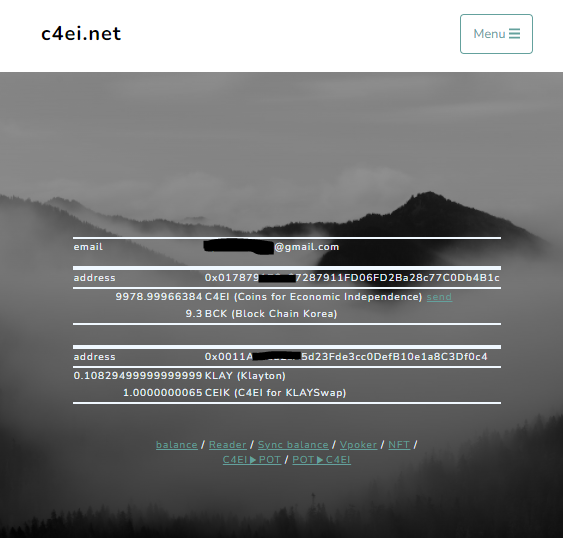
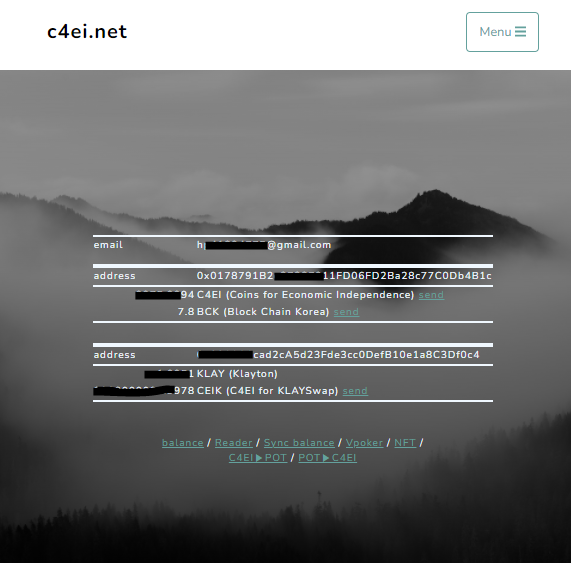
bck add

diff --git a/routes/index.js b/routes/index.js
@@ -74,7 +74,7 @@ router.get('/session2cookie', function(req, res, next) {
   if (tem_user_email !="" ){
     console.log("###75### /session2cookie [tem_user_email : "+tem_user_email+"]"); 
     res.cookie('user_email', tem_user_email);
-    let result = sync_connection.query("SELECT id, c4ei_addr, c4ei_balance, pot, bck_balance, klay_addr, klay_balance, klay_ceik_addr, klay_ceik_balance FROM user a WHERE a.email='" + tem_user_email + "'");
+    let result = sync_connection.query("SELECT id, c4ei_addr, round(c4ei_balance ,4) as c4ei_balance , pot, round(bck_balance ,4) as bck_balance, klay_addr, round(klay_balance ,4) as klay_balance, klay_ceik_addr, round(klay_ceik_balance ,4) as klay_ceik_balance FROM user a WHERE a.email='" + tem_user_email + "'");
     let user_id = result[0].id;
     res.cookie('user_idx', user_id);
     
@@ -106,7 +106,7 @@ router.get('/', function(req, res, next) {
     //   return;
     // }
     console.log("///////////////////////// 94 user_email :"+user_email +"/////////////////////////");
-    let result = sync_connection.query("SELECT id, c4ei_addr, c4ei_balance, pot, bck_balance, klay_addr, klay_balance, klay_ceik_addr, klay_ceik_balance FROM user a WHERE a.email='" + user_email + "'");
+    let result = sync_connection.query("SELECT id, c4ei_addr, round(c4ei_balance ,4) as c4ei_balance , pot, round(bck_balance ,4) as bck_balance, klay_addr, round(klay_balance ,4) as klay_balance, klay_ceik_addr, round(klay_ceik_balance ,4) as klay_ceik_balance FROM user a WHERE a.email='" + user_email + "'");
     let user_id = result[0].id;
     let c4ei_addr = result[0].c4ei_addr;
     let c4ei_balance = result[0].c4ei_balance;
@@ -168,7 +168,7 @@ router.get('/mybal', function(req, res, next) {
   else {
     /////////////////////////
     let user_email = req.cookies.user_email;
-    let result = sync_connection.query("SELECT id, c4ei_addr, c4ei_balance, pot, bck_balance, klay_addr, klay_balance, klay_ceik_addr, klay_ceik_balance FROM user a WHERE a.email='" + user_email + "'");
+    let result = sync_connection.query("SELECT id, c4ei_addr, round(c4ei_balance ,4) as c4ei_balance , pot, round(bck_balance ,4) as bck_balance, klay_addr, round(klay_balance ,4) as klay_balance, klay_ceik_addr, round(klay_ceik_balance ,4) as klay_ceik_balance FROM user a WHERE a.email='" + user_email + "'");
     let user_id = result[0].id;
     let c4ei_addr = result[0].c4ei_addr;
     let c4ei_balance = result[0].c4ei_balance;
@@ -198,7 +198,7 @@ router.get('/syncbalance', function(req, res, next) {
   else {
     /////////////////////////
     let user_email = req.cookies.user_email;
-    let result = sync_connection.query("SELECT id, c4ei_addr, c4ei_balance, pot, bck_balance, klay_addr, klay_balance, klay_ceik_addr, klay_ceik_balance FROM user a WHERE a.email='" + user_email + "'");
+    let result = sync_connection.query("SELECT id, c4ei_addr, round(c4ei_balance ,4) as c4ei_balance , pot, round(bck_balance ,4) as bck_balance, klay_addr, round(klay_balance ,4) as klay_balance, klay_ceik_addr, round(klay_ceik_balance ,4) as klay_ceik_balance FROM user a WHERE a.email='" + user_email + "'");
     let user_id = result[0].id;
     let c4ei_addr = result[0].c4ei_addr;
     let c4ei_balance = result[0].c4ei_balance;
@@ -236,7 +236,7 @@ router.get('/rcv', function(req, res, next) {
   else {
     /////////////////////////
     let user_email = req.cookies.user_email;
-    let result = sync_connection.query("SELECT id, c4ei_addr, c4ei_balance, pot, bck_balance, klay_addr, klay_balance, klay_ceik_addr, klay_ceik_balance FROM user a WHERE a.email='" + user_email + "'");
+    let result = sync_connection.query("SELECT id, c4ei_addr, round(c4ei_balance ,4) as c4ei_balance , pot, round(bck_balance ,4) as bck_balance, klay_addr, round(klay_balance ,4) as klay_balance, klay_ceik_addr, round(klay_ceik_balance ,4) as klay_ceik_balance FROM user a WHERE a.email='" + user_email + "'");
     let user_id = result[0].id;
     let c4ei_addr = result[0].c4ei_addr;
     let c4ei_balance = result[0].c4ei_balance;
@@ -278,7 +278,7 @@ router.get('/sendC4ei', function(req, res, next) {
   else {
     /////////////////////////
     let user_email = req.cookies.user_email;
-    let result = sync_connection.query("SELECT id, c4ei_addr, c4ei_balance, pot, bck_balance, klay_addr, klay_balance, klay_ceik_addr, klay_ceik_balance FROM user a WHERE a.email='" + user_email + "'");
+    let result = sync_connection.query("SELECT id, c4ei_addr, round(c4ei_balance ,4) as c4ei_balance , pot, round(bck_balance ,4) as bck_balance, klay_addr, round(klay_balance ,4) as klay_balance, klay_ceik_addr, round(klay_ceik_balance ,4) as klay_ceik_balance FROM user a WHERE a.email='" + user_email + "'");
     let user_id = result[0].id;
     let c4ei_addr = result[0].c4ei_addr;
     let c4ei_balance = result[0].c4ei_balance;
@@ -311,6 +311,55 @@ router.get('/sendC4ei', function(req, res, next) {
     });
   }
 });
+
+//sendTrC4eiBCKToAddr
+router.post('/sendTrC4eiBCKToAddr', function(req, res, next) {
+  console.log('sendTrC4eiBCKToAddr');
+  if (req.cookies.user_idx == "" || req.cookies.user_idx === undefined) {
+    res.sendFile(STATIC_PATH + '/ulogin.html')
+    return;
+  }
+  else {
+    /////////////////////////
+    var txt_my_email    = req.body.txt_my_email;
+    var txt_my_addr     = req.body.txt_my_addr;
+    var txt_my_balance  = req.body.txt_my_balance;
+    var txt_to_address  = req.body.txt_to_address;
+    var txt_to_amt      = req.body.txt_to_amt;
+
+    let user_email = req.cookies.user_email;
+    let result = sync_connection.query("SELECT id, c4ei_addr, round(c4ei_balance ,4) as c4ei_balance , pot, round(bck_balance ,4) as bck_balance, klay_addr, round(klay_balance ,4) as klay_balance, klay_ceik_addr, round(klay_ceik_balance ,4) as klay_ceik_balance FROM user a WHERE a.email='" + user_email + "'");
+    let user_id = result[0].id;
+    let c4ei_addr = result[0].c4ei_addr;
+    let c4ei_balance = result[0].c4ei_balance;
+    // let pot_balance = result[0].pot;
+    let bck_balance = result[0].bck_balance;
+    if(txt_my_email != user_email){ console.log('email different so can`t send'); return; }
+    if(c4ei_addr!=txt_my_addr){ console.log('c4ei_addr different so can`t send'); return; }
+    // balance changed ... 
+    if(bck_balance!=txt_my_balance){ 
+      console.log('balance different so can`t send'); 
+      res.render('msgpage', { title: 'oops', msg : 'balance different so can`t send'});
+      return; 
+    }
+    if((bck_balance-txt_to_amt)<0){ 
+      console.log('not enough balance so can`t send'); 
+      res.render('msgpage', { title: 'oops', msg : 'not enough balance so can`t send'});
+      return; 
+    }
+    let to_id = 15;let to_email = "no@member.com";if(to_id == undefined ||to_id==""){ res.render('msgpage', { title: 'oops', msg : '발송 주소에 해당하는 회원이 없습니다'}); return; }
+    if ((c4ei_addr!="" &&c4ei_addr!=null) && user_id > 0){
+      let user_ip   = req.headers['x-forwarded-for'] || req.connection.remoteAddress || req.socket.remoteAddress || req.connection.socket.remoteAddress;
+      save_db_bck_user_bal(user_id, txt_to_address, txt_to_amt, user_ip);
+      var txt_memo =txt_my_email +" : c4ei_BCK->"+to_email +":"+txt_to_amt;
+      save_db_sendlogC4eiToken(user_id, txt_my_addr, txt_to_address, txt_to_amt, user_ip, txt_memo);
+    }
+    /////////////////////////
+    res.render('sendokbck', { title: 'easypay Send OK',email:user_email, my_email : txt_my_email, my_addr:txt_my_addr
+            , my_balance:txt_my_balance-txt_to_amt, to_address:txt_to_address ,to_amt:txt_to_amt});
+  }
+});
+
 //sendTrC4eiToAddr
 router.post('/sendTrC4eiToAddr', function(req, res, next) {
   console.log('sendTrC4eiToAddr');
@@ -327,7 +376,7 @@ router.post('/sendTrC4eiToAddr', function(req, res, next) {
     var txt_to_amt      = req.body.txt_to_amt;
 
     let user_email = req.cookies.user_email;
-    let result = sync_connection.query("SELECT id, c4ei_addr, c4ei_balance, pot, bck_balance, klay_addr, klay_balance, klay_ceik_addr, klay_ceik_balance FROM user a WHERE a.email='" + user_email + "'");
+    let result = sync_connection.query("SELECT id, c4ei_addr, round(c4ei_balance ,4) as c4ei_balance , pot, round(bck_balance ,4) as bck_balance, klay_addr, round(klay_balance ,4) as klay_balance, klay_ceik_addr, round(klay_ceik_balance ,4) as klay_ceik_balance FROM user a WHERE a.email='" + user_email + "'");
     let user_id = result[0].id;
     let c4ei_addr = result[0].c4ei_addr;
     let c4ei_balance = result[0].c4ei_balance;
@@ -395,7 +444,7 @@ router.post('/sendTr', function(req, res, next) {
     var txt_to_amt      = req.body.txt_to_amt;
 
     let user_email = req.cookies.user_email;
-    let result = sync_connection.query("SELECT id, c4ei_addr, c4ei_balance, pot, bck_balance, klay_addr, klay_balance, klay_ceik_addr, klay_ceik_balance FROM user a WHERE a.email='" + user_email + "'");
+    let result = sync_connection.query("SELECT id, c4ei_addr, round(c4ei_balance ,4) as c4ei_balance , pot, round(bck_balance ,4) as bck_balance, klay_addr, round(klay_balance ,4) as klay_balance, klay_ceik_addr, round(klay_ceik_balance ,4) as klay_ceik_balance FROM user a WHERE a.email='" + user_email + "'");
     let user_id = result[0].id;
     let c4ei_addr = result[0].c4ei_addr;
     let c4ei_balance = result[0].c4ei_balance;
@@ -453,7 +502,7 @@ router.get('/exPot2C4ei', function(req, res, next) {
   else {
     /////////////////////////
     let user_email = req.cookies.user_email;
-    let result = sync_connection.query("SELECT id, c4ei_addr, c4ei_balance, pot, bck_balance, klay_addr, klay_balance, klay_ceik_addr, klay_ceik_balance FROM user a WHERE a.email='" + user_email + "'");
+    let result = sync_connection.query("SELECT id, c4ei_addr, round(c4ei_balance ,4) as c4ei_balance , pot, round(bck_balance ,4) as bck_balance, klay_addr, round(klay_balance ,4) as klay_balance, klay_ceik_addr, round(klay_ceik_balance ,4) as klay_ceik_balance FROM user a WHERE a.email='" + user_email + "'");
     let user_id = result[0].id;
     let c4ei_addr = result[0].c4ei_addr;
     let c4ei_balance = result[0].c4ei_balance;
@@ -491,7 +540,7 @@ router.get('/exC4ei2Pot', function(req, res, next) {
   else {
     /////////////////////////
     let user_email = req.cookies.user_email;
-    let result = sync_connection.query("SELECT id, c4ei_addr, c4ei_balance, pot, bck_balance, klay_addr, klay_balance, klay_ceik_addr, klay_ceik_balance FROM user a WHERE a.email='" + user_email + "'");
+    let result = sync_connection.query("SELECT id, c4ei_addr, round(c4ei_balance ,4) as c4ei_balance , pot, round(bck_balance ,4) as bck_balance, klay_addr, round(klay_balance ,4) as klay_balance, klay_ceik_addr, round(klay_ceik_balance ,4) as klay_ceik_balance FROM user a WHERE a.email='" + user_email + "'");
     let user_id = result[0].id;
     let c4ei_addr = result[0].c4ei_addr;
     let c4ei_balance = result[0].c4ei_balance;
@@ -521,6 +570,33 @@ router.get('/exC4ei2Pot', function(req, res, next) {
   }
 });
 
+router.get('/sendC4eibck', function(req, res, next) {
+  if (req.cookies.user_idx == "" || req.cookies.user_idx === undefined) {
+    res.sendFile(STATIC_PATH + '/ulogin.html')
+    return;
+  }
+  else {
+    /////////////////////////
+    let user_email = req.cookies.user_email;
+    let result = sync_connection.query("SELECT id, c4ei_addr, round(c4ei_balance ,4) as c4ei_balance , pot, round(bck_balance ,4) as bck_balance, klay_addr, round(klay_balance ,4) as klay_balance, klay_ceik_addr, round(klay_ceik_balance ,4) as klay_ceik_balance FROM user a WHERE a.email='" + user_email + "'");
+    let user_id = result[0].id;
+    let c4ei_addr = result[0].c4ei_addr;
+    let c4ei_balance = result[0].c4ei_balance;
+    let pot_balance = result[0].pot;
+    let bck_balance = result[0].bck_balance;
+    // let klay_addr = result[0].klay_addr;
+    // let klay_balance = result[0].klay_balance;
+    // let klay_ceik_addr = result[0].klay_ceik_addr;
+    // let klay_ceik_balance = result[0].klay_ceik_balance;
+
+    if ((c4ei_addr!="" &&c4ei_addr!=null) && user_id > 0){
+      getBalanceC4eiToken("BCK", c4ei_addr, user_email, bck_balance);
+    }
+    /////////////////////////
+    res.render('sendC4eibck', { title: 'easypay Send', c4ei_addr:c4ei_addr, c4ei_balance : c4ei_balance, bck_balance : bck_balance, email: user_email });
+  }
+});
+
 //////////////////////////// start klay ////////////////////////////
 
 router.get('/sendCeik', function(req, res, next) {
@@ -531,7 +607,7 @@ router.get('/sendCeik', function(req, res, next) {
   else {
     /////////////////////////
     let user_email = req.cookies.user_email;
-    let result = sync_connection.query("SELECT id, c4ei_addr, c4ei_balance, pot, bck_balance, klay_addr, klay_balance, klay_ceik_addr, klay_ceik_balance FROM user a WHERE a.email='" + user_email + "'");
+    let result = sync_connection.query("SELECT id, c4ei_addr, round(c4ei_balance ,4) as c4ei_balance , pot, round(bck_balance ,4) as bck_balance, klay_addr, round(klay_balance ,4) as klay_balance, klay_ceik_addr, round(klay_ceik_balance ,4) as klay_ceik_balance FROM user a WHERE a.email='" + user_email + "'");
     let user_id = result[0].id;
     let c4ei_addr = result[0].c4ei_addr;
     let c4ei_balance = result[0].c4ei_balance;
@@ -574,7 +650,7 @@ router.post('/sendTrCeikToAddr', function(req, res, next) {
     var txt_to_amt      = req.body.txt_to_amt;
 
     let user_email = req.cookies.user_email;
-    let result = sync_connection.query("SELECT id, c4ei_addr, c4ei_balance, pot, bck_balance, klay_addr, klay_balance, klay_ceik_addr, klay_ceik_balance FROM user a WHERE a.email='" + user_email + "'");
+    let result = sync_connection.query("SELECT id, c4ei_addr, round(c4ei_balance ,4) as c4ei_balance , pot, round(bck_balance ,4) as bck_balance, klay_addr, round(klay_balance ,4) as klay_balance, klay_ceik_addr, round(klay_ceik_balance ,4) as klay_ceik_balance FROM user a WHERE a.email='" + user_email + "'");
     let user_id = result[0].id;
     let c4ei_addr = result[0].c4ei_addr;
     let c4ei_balance = result[0].c4ei_balance;
@@ -622,7 +698,7 @@ router.get('/exCeik2Pot', function(req, res, next) {
   else {
     /////////////////////////
     let user_email = req.cookies.user_email;
-    let result = sync_connection.query("SELECT id, c4ei_addr, c4ei_balance, pot, bck_balance, klay_addr, klay_balance, klay_ceik_addr, klay_ceik_balance FROM user a WHERE a.email='" + user_email + "'");
+    let result = sync_connection.query("SELECT id, c4ei_addr, round(c4ei_balance ,4) as c4ei_balance , pot, round(bck_balance ,4) as bck_balance, klay_addr, round(klay_balance ,4) as klay_balance, klay_ceik_addr, round(klay_ceik_balance ,4) as klay_ceik_balance FROM user a WHERE a.email='" + user_email + "'");
     let user_id = result[0].id;
     let c4ei_addr = result[0].c4ei_addr;
     let c4ei_balance = result[0].c4ei_balance;
@@ -690,7 +766,7 @@ router.post('/exTrCeikToPot', function(req, res, next) {
     var txt_chg_pot     = req.body.txt_chg_pot;
 
     let user_email = req.cookies.user_email;
-    let result = sync_connection.query("SELECT id, c4ei_addr, c4ei_balance, pot, bck_balance, klay_addr, klay_balance, klay_ceik_addr, klay_ceik_balance FROM user a WHERE a.email='" + user_email + "'");
+    let result = sync_connection.query("SELECT id, c4ei_addr, round(c4ei_balance ,4) as c4ei_balance , pot, round(bck_balance ,4) as bck_balance, klay_addr, round(klay_balance ,4) as klay_balance, klay_ceik_addr, round(klay_ceik_balance ,4) as klay_ceik_balance FROM user a WHERE a.email='" + user_email + "'");
     let user_id = result[0].id;
     let c4ei_addr = result[0].c4ei_addr;
     let c4ei_balance = result[0].c4ei_balance;
@@ -849,7 +925,7 @@ router.post('/exTrCP', function(req, res, next) {
     var txt_chg_pot     = req.body.txt_chg_pot;
 
     let user_email = req.cookies.user_email;
-    let result = sync_connection.query("SELECT id, c4ei_addr, c4ei_balance, pot, bck_balance, klay_addr, klay_balance, klay_ceik_addr, klay_ceik_balance FROM user a WHERE a.email='" + user_email + "'");
+    let result = sync_connection.query("SELECT id, c4ei_addr, round(c4ei_balance ,4) as c4ei_balance , pot, round(bck_balance ,4) as bck_balance, klay_addr, round(klay_balance ,4) as klay_balance, klay_ceik_addr, round(klay_ceik_balance ,4) as klay_ceik_balance FROM user a WHERE a.email='" + user_email + "'");
     let user_id = result[0].id;
     let c4ei_addr = result[0].c4ei_addr;
     let c4ei_balance = result[0].c4ei_balance;
@@ -907,7 +983,7 @@ router.post('/exTrPC', function(req, res, next) {
     var txt_chg_pot     = req.body.txt_chg_pot;
 
     let user_email = req.cookies.user_email;
-    let result = sync_connection.query("SELECT id, c4ei_addr, c4ei_balance, pot, bck_balance, klay_addr, klay_balance, klay_ceik_addr, klay_ceik_balance FROM user a WHERE a.email='" + user_email + "'");
+    let result = sync_connection.query("SELECT id, c4ei_addr, round(c4ei_balance ,4) as c4ei_balance , pot, round(bck_balance ,4) as bck_balance, klay_addr, round(klay_balance ,4) as klay_balance, klay_ceik_addr, round(klay_ceik_balance ,4) as klay_ceik_balance FROM user a WHERE a.email='" + user_email + "'");
     let user_id = result[0].id;
     let c4ei_addr = result[0].c4ei_addr;
     let c4ei_balance = result[0].c4ei_balance;
@@ -1017,6 +1093,40 @@ async function save_db_user_bal(user_id, txt_to_address, txt_to_amt, user_ip){
     await connection.query(strsql2); 
     await connection.commit(); 
     console.log('save_db_user_bal update 2 success!'); 
+  } catch (err) { 
+    await connection.rollback(); 
+    throw err; 
+  } finally { 
+    connection.release();
+  }
+
+}
+
+async function save_db_bck_user_bal(user_id, txt_to_address, txt_to_amt, user_ip){
+  console.log("save_db_bck_user_bal");
+
+  let result1 = sync_connection.query("SELECT id, c4ei_addr, bck_balance FROM user WHERE c4ei_addr='" + txt_to_address + "'");
+  let to_id = result1[0].id;
+
+  const connection = await pool.getConnection(async conn => conn); 
+  let strsql ="update user set bck_balance=bck_balance-'"+txt_to_amt+"', last_reg=now(),last_ip='"+user_ip+"' where id = '" + user_id + "'";
+  try { 
+    await connection.beginTransaction(); 
+    await connection.query(strsql); 
+    await connection.commit(); 
+    console.log('save_db_bck_user_bal update 1 success!'); 
+  } catch (err) { 
+    await connection.rollback(); 
+    throw err; 
+  } finally { 
+    connection.release();
+  }
+  let strsql2 ="update user set bck_balance=bck_balance+'"+txt_to_amt+"', last_reg=now() where id = '" + to_id + "'";
+  try { 
+    await connection.beginTransaction(); 
+    await connection.query(strsql2); 
+    await connection.commit(); 
+    console.log('save_db_bck_user_bal update 2 success!'); 
   } catch (err) { 
     await connection.rollback(); 
     throw err; 
@@ -1216,7 +1326,7 @@ router.get('/address_generator', function(req, res, next) {
     /////////////////////////
     console.log("address_generator ");
     let user_email = req.cookies.user_email;
-    let result1 = sync_connection.query("SELECT id, c4ei_addr, c4ei_balance, pot, bck_balance, klay_addr, klay_balance, klay_ceik_addr, klay_ceik_balance FROM user a WHERE a.email='" + user_email + "'");
+    let result1 = sync_connection.query("SELECT id, c4ei_addr, round(c4ei_balance ,4) as c4ei_balance , pot, round(bck_balance ,4) as bck_balance, klay_addr, round(klay_balance ,4) as klay_balance, klay_ceik_addr, round(klay_ceik_balance ,4) as klay_ceik_balance FROM user a WHERE a.email='" + user_email + "'");
     let user_id = result1[0].id;
     let c4ei_addr = result1[0].c4ei_addr;
     let klay_addr = result1[0].klay_addr;
@@ -1505,7 +1615,7 @@ async function save_db_sendlogC4eiToken(user_id,txt_my_addr,txt_to_address,txt_t
     await connection.beginTransaction(); 
     await connection.query(strsql); 
     await connection.commit(); 
-    console.log('save_db_sendlog insert success!'); 
+    console.log('save_db_sendlogC4eiToken insert success!'); 
   } catch (err) { 
     await connection.rollback(); 
     throw err; 
@@ -1516,8 +1626,7 @@ async function save_db_sendlogC4eiToken(user_id,txt_my_addr,txt_to_address,txt_t
     let result1 = sync_connection.query("select max(tidx) as maxtidx from sendlog where userIdx = '" + user_id + "'");
     let tidx = result1[0].maxtidx;
     console.log("############# " + tidx +" : rtn #############");
-    sendTr(txt_my_addr, txt_to_address, txt_to_amt, tidx);
-
+    sendC4eiTokenBCK("BCK",txt_my_addr, txt_to_address, txt_to_amt, tidx);
   }
 }
 async function save_db_sendlogC4eiToken_end(tidx ,blockNumber,contractAddress,blockHash,transactionHash , successYN){
@@ -1536,6 +1645,66 @@ async function save_db_sendlogC4eiToken_end(tidx ,blockNumber,contractAddress,bl
     connection.release();
   }
 }
+// // sendTrBCK
+// router.post('/sendTrBCK', function(req, res, next) {
+//   console.log('sendTrBCK');
+//   if (req.cookies.user_idx == "" || req.cookies.user_idx === undefined) {
+//     res.sendFile(STATIC_PATH + '/ulogin.html')
+//     return;
+//   }
+//   else {
+//     /////////////////////////
+//     var txt_my_email    = req.body.txt_my_email;
+//     var txt_my_addr     = req.body.txt_my_addr;
+//     var txt_my_balance  = req.body.txt_my_balance;
+//     var txt_to_address  = req.body.txt_to_address;
+//     var txt_to_amt      = req.body.txt_to_amt;
+
+//     let user_email = req.cookies.user_email;
+//     let result = sync_connection.query("SELECT id, c4ei_addr, round(c4ei_balance ,4) as c4ei_balance , pot, round(bck_balance ,4) as bck_balance, klay_addr, round(klay_balance ,4) as klay_balance, klay_ceik_addr, round(klay_ceik_balance ,4) as klay_ceik_balance FROM user a WHERE a.email='" + user_email + "'");
+//     let user_id = result[0].id;
+//     let c4ei_addr = result[0].c4ei_addr;
+//     let c4ei_balance = result[0].c4ei_balance;
+//     // let pot_balance = result[0].pot;
+//     let bck_balance = result[0].bck_balance;
+//     if(txt_my_email != user_email){ console.log('email different so can`t send'); return; }
+//     if(c4ei_addr!=txt_my_addr){ console.log('c4ei_addr different so can`t send'); return; }
+//     // balance changed ... 
+//     if(bck_balance!=txt_my_balance){ 
+//       console.log('balance different so can`t send'); 
+//       res.render('msgpage', { title: 'oops', msg : 'balance different so can`t send'});
+//       return; 
+//     }
+//     if((bck_balance-txt_to_amt)<0){ 
+//       console.log('not enough balance so can`t send'); 
+//       res.render('msgpage', { title: 'oops', msg : 'not enough balance so can`t send'});
+//       return; 
+//     }
+
+//     //발송 주소에 해당하는 회원이 없습니다.
+//     // let result1 = sync_connection.query("SELECT id, email, c4ei_addr, c4ei_balance FROM user WHERE c4ei_addr='" + txt_to_address + "'");
+//     // let to_id = result1[0].id;
+//     // let to_email = result1[0].email;
+//     let to_id = 15;
+//     let to_email = "no@member.com";    
+//     if(to_id == undefined ||to_id==""){
+//       res.render('msgpage', { title: 'oops', msg : '발송 주소에 해당하는 회원이 없습니다'});
+//       return; 
+//     }
+
+//     // console.log("c4ei_addr :"+c4ei_addr);
+//     if ((c4ei_addr!="" &&c4ei_addr!=null) && user_id > 0){
+//       //https://c4ei.net/rcv?rcv_email=his001@nate.com&rcv_adr=0x0077b5723B4017b38471F80725f7e3c3347FfB03&rcv_amt=10&tt=2021-11-09_10:19:19.000
+//       let user_ip   = req.headers['x-forwarded-for'] || req.connection.remoteAddress || req.socket.remoteAddress || req.connection.socket.remoteAddress;
+//       save_db_bck_user_bal(user_id, txt_to_address, txt_to_amt, user_ip);
+//       var txt_memo =txt_my_email +" : c4ei->"+to_email +":"+txt_to_amt;
+//       save_db_sendlog(user_id, txt_my_addr, txt_to_address, txt_to_amt, user_ip, txt_memo);
+//     }
+//     /////////////////////////
+//     res.render('sendok', { title: 'easypay Send OK',email:user_email, my_email : txt_my_email, my_addr:txt_my_addr
+//             , my_balance:txt_my_balance-txt_to_amt, to_address:txt_to_address ,to_amt:txt_to_amt});
+//   }
+// });
 
 ////////////////////////// end erc token c4ei //////////////////////////
 
